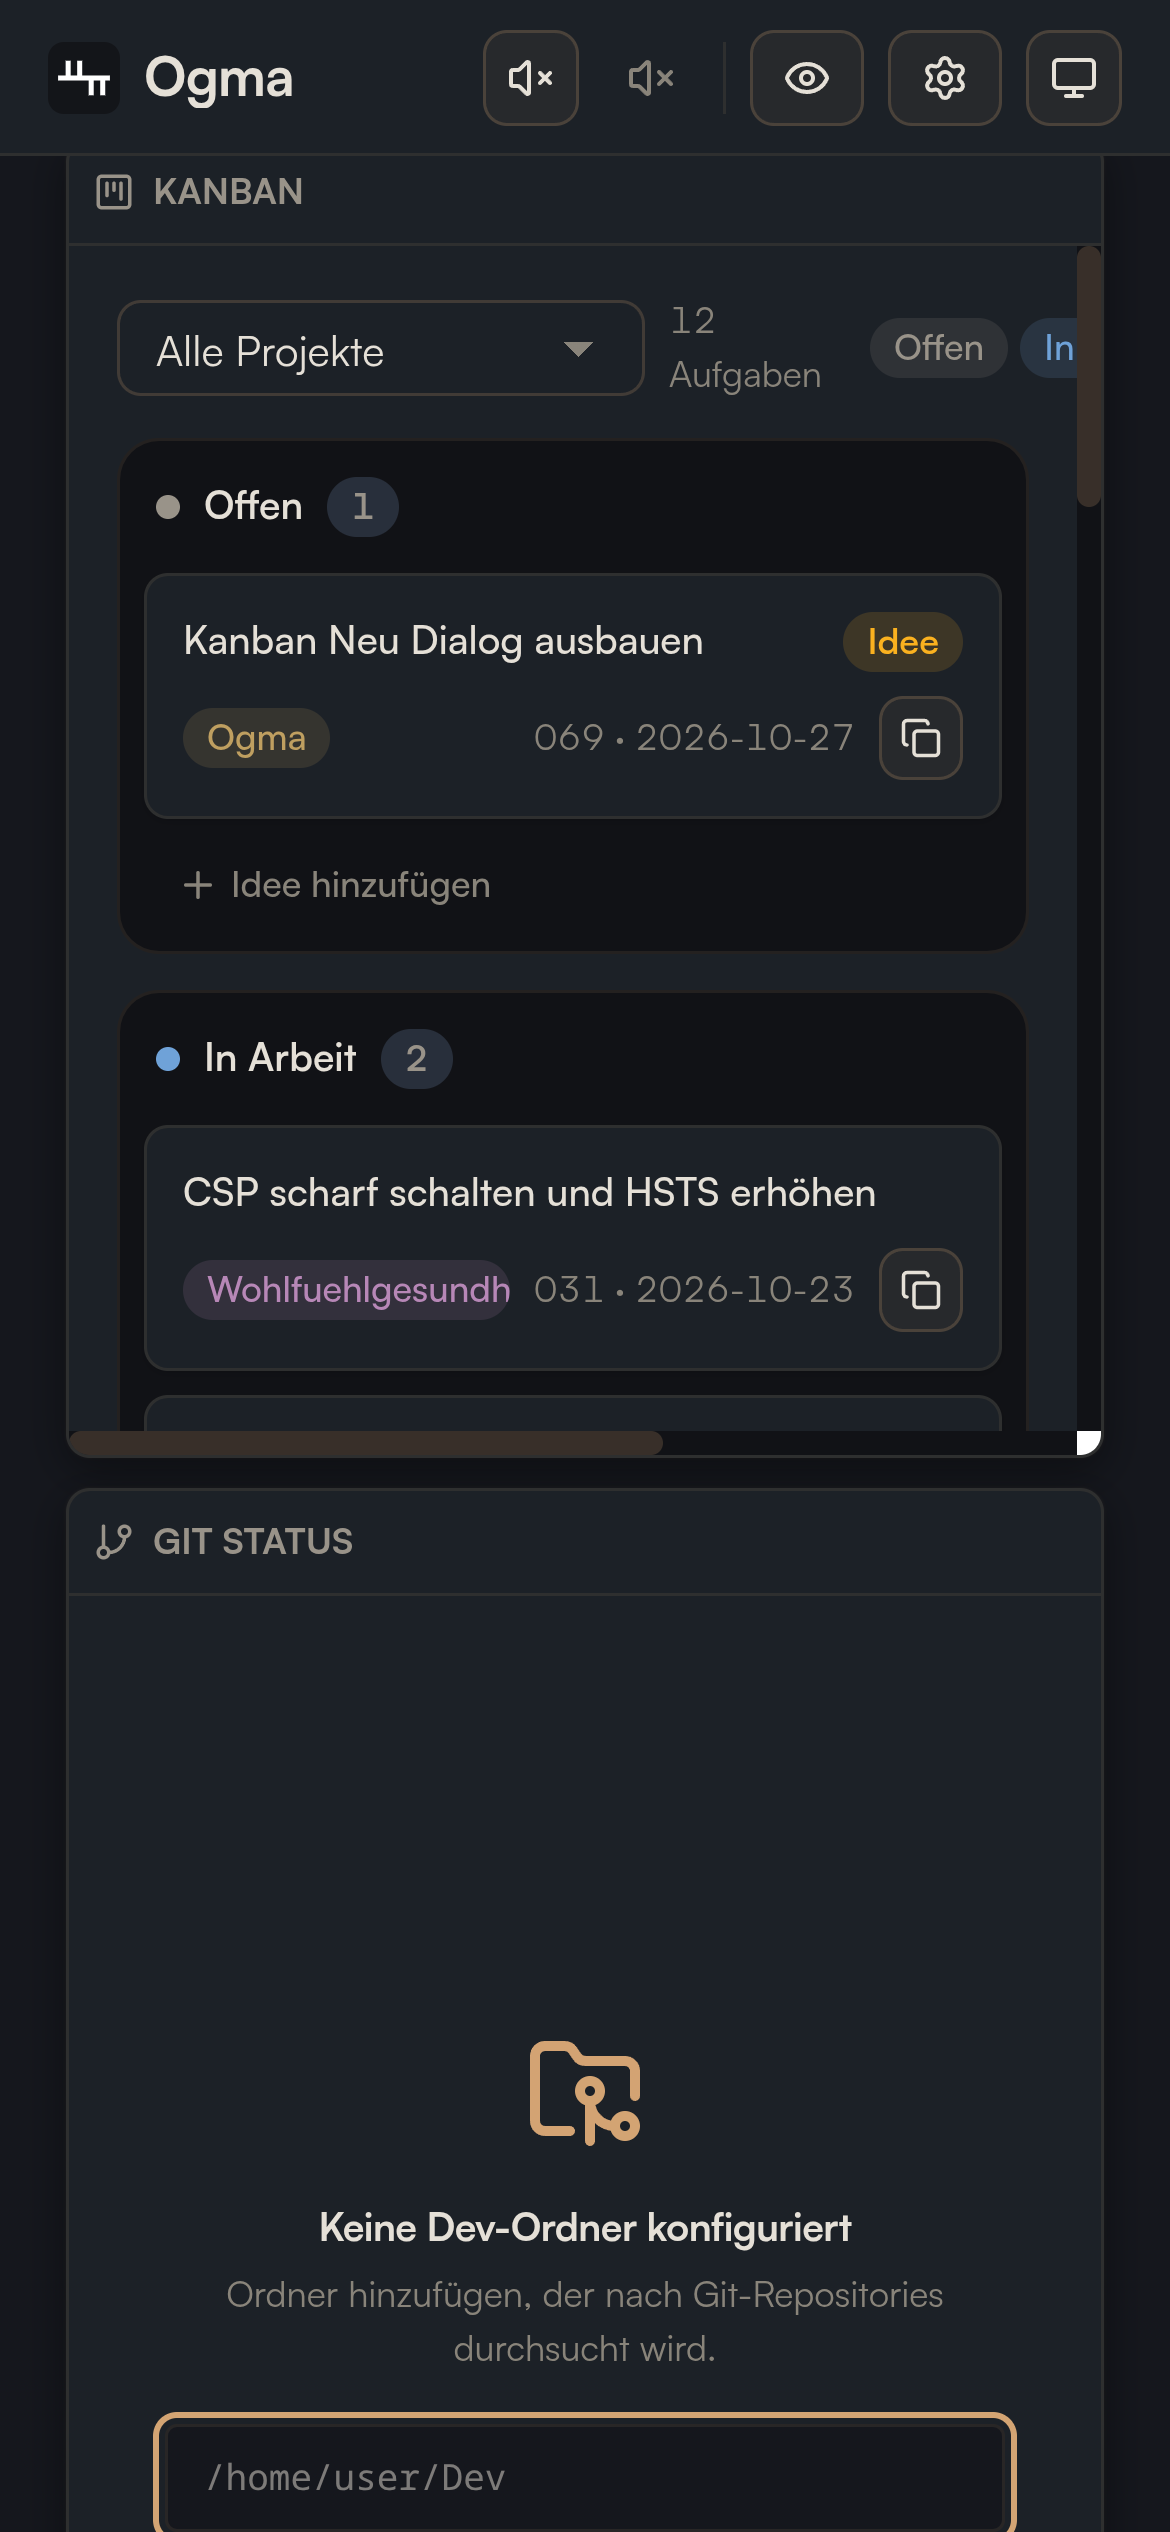
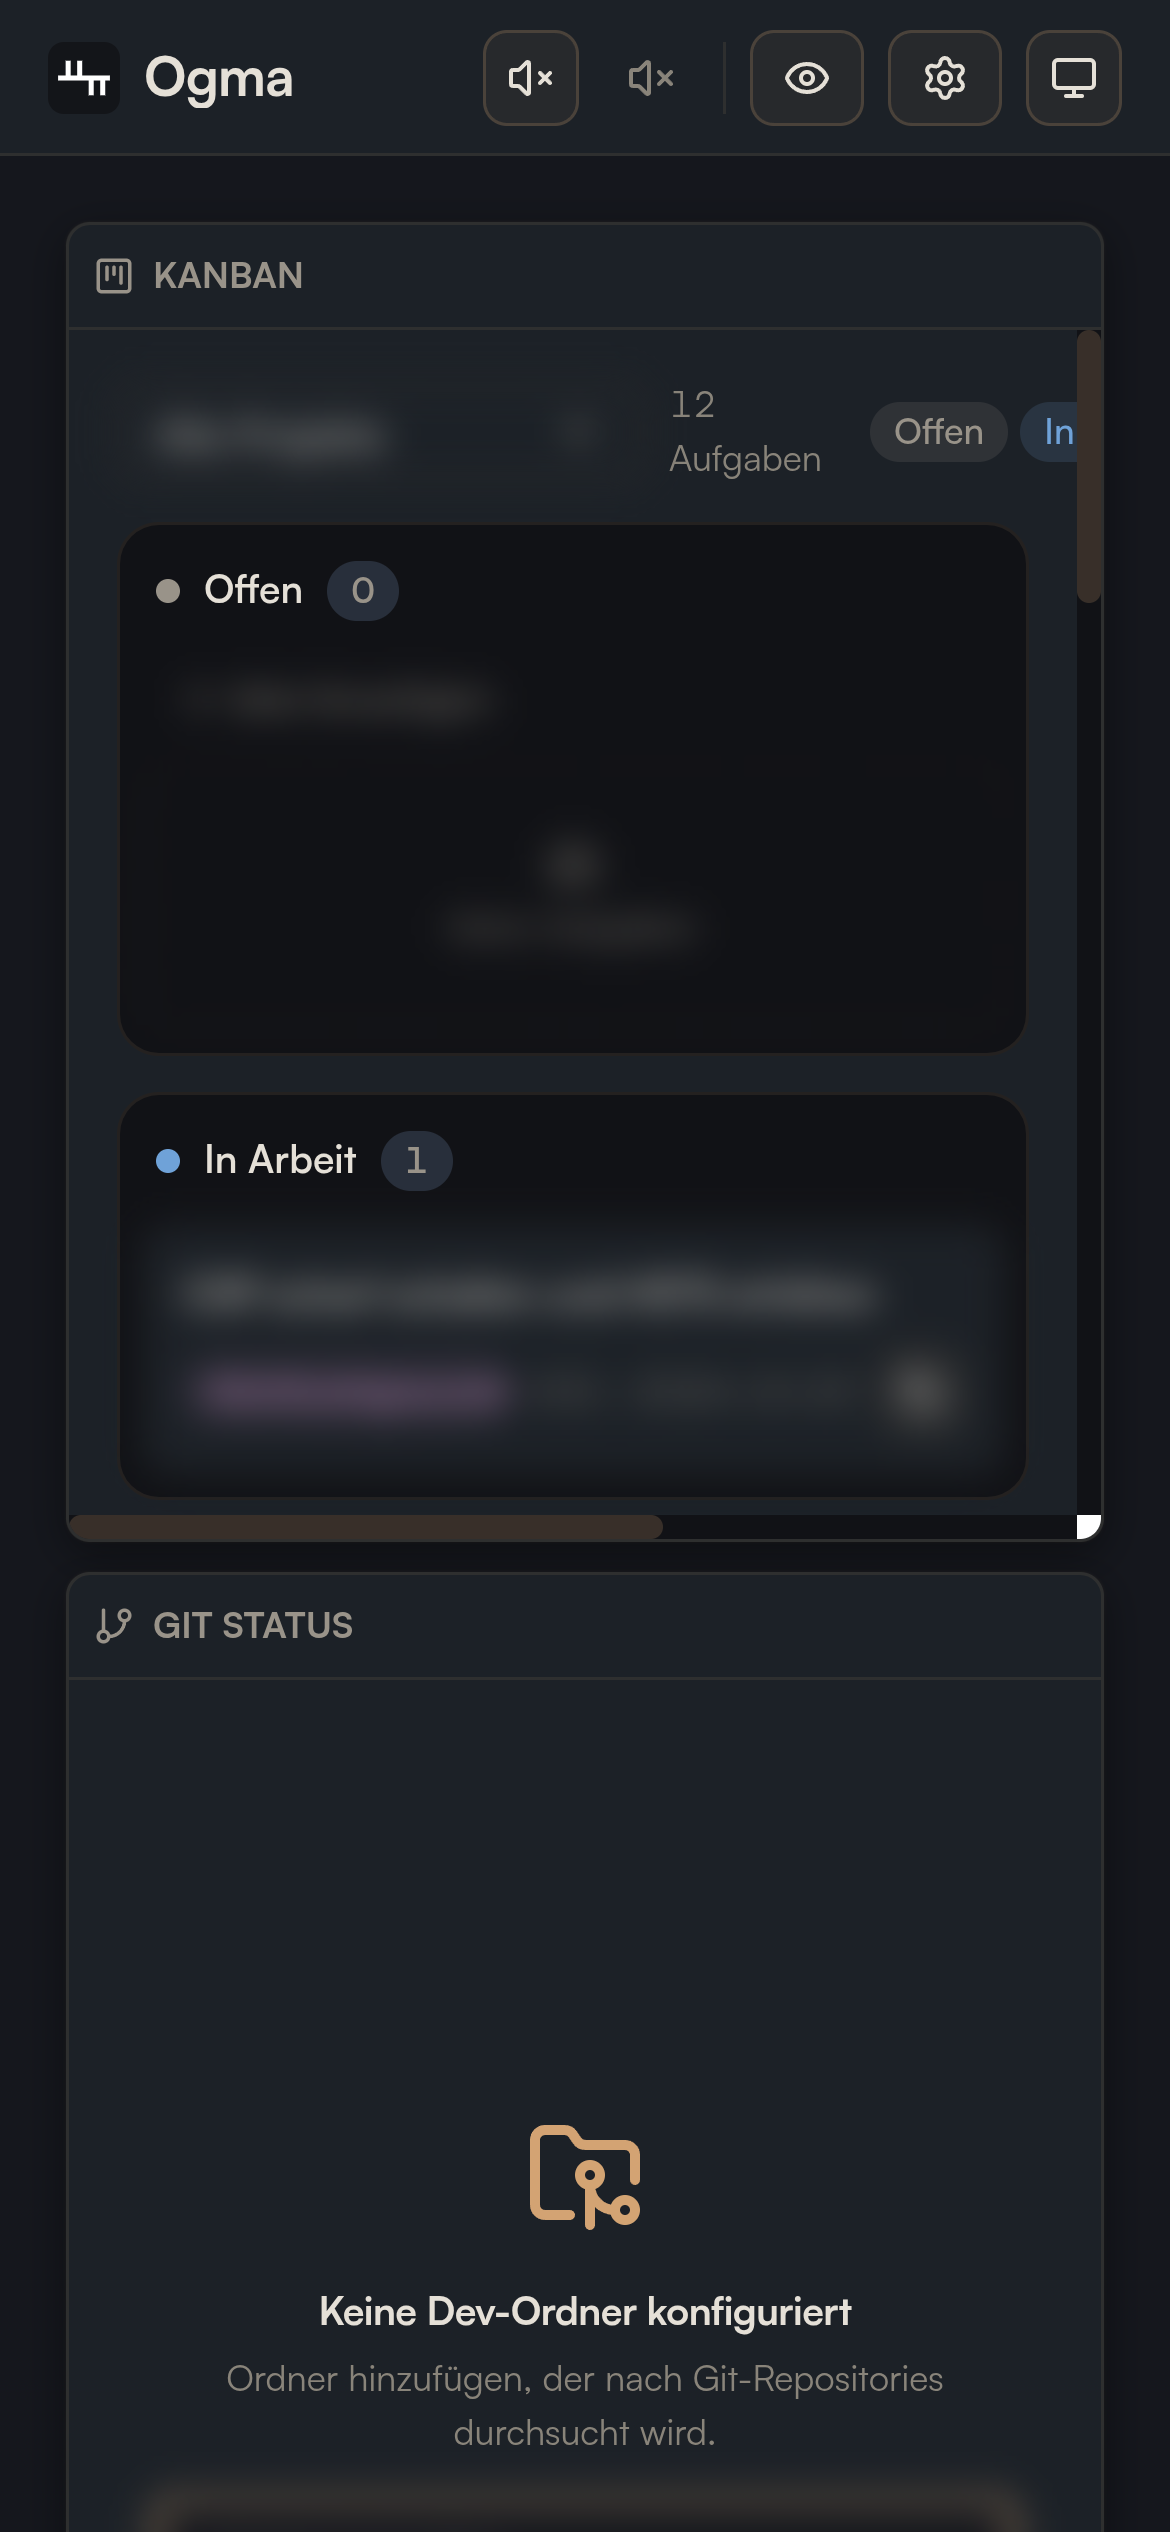
README-Screenshots erneuert (sensible Details verpixelt), Desktop-Kacheln kompakter, Storage blendet Mini-Dateisysteme aus

diff --git a/src/App.tsx b/src/App.tsx
@@ -74,30 +74,30 @@ const defaultLayout = [
   { i: 'docker', x: 6, y: 5, w: 6, h: 6, minW: 4, minH: 4 },
 
   // Row 3: System values
-  { i: 'metrics-cpu', x: 0, y: 11, w: 3, h: 3, minW: 3, minH: 2 },
-  { i: 'metrics-memory', x: 3, y: 11, w: 3, h: 3, minW: 3, minH: 2 },
-  { i: 'metrics-vram', x: 6, y: 11, w: 3, h: 3, minW: 3, minH: 2 },
-  { i: 'metrics-temp', x: 9, y: 11, w: 3, h: 3, minW: 3, minH: 2 },
+  { i: 'metrics-cpu', x: 0, y: 11, w: 3, h: 2, minW: 3, minH: 2 },
+  { i: 'metrics-memory', x: 3, y: 11, w: 3, h: 2, minW: 3, minH: 2 },
+  { i: 'metrics-vram', x: 6, y: 11, w: 3, h: 2, minW: 3, minH: 2 },
+  { i: 'metrics-temp', x: 9, y: 11, w: 3, h: 2, minW: 3, minH: 2 },
 
   // Row 4: History, cores, storage
-  { i: 'metrics-graph', x: 0, y: 14, w: 6, h: 4, minW: 4, minH: 3 },
-  { i: 'metrics-cores', x: 6, y: 14, w: 3, h: 4, minW: 3, minH: 2 },
-  { i: 'metrics-storage', x: 9, y: 14, w: 3, h: 4, minW: 3, minH: 3 },
+  { i: 'metrics-graph', x: 0, y: 13, w: 6, h: 4, minW: 4, minH: 3 },
+  { i: 'metrics-cores', x: 6, y: 13, w: 3, h: 4, minW: 3, minH: 2 },
+  { i: 'metrics-storage', x: 9, y: 13, w: 3, h: 4, minW: 3, minH: 3 },
 
   // Row 5: Services
-  { i: 'service-status', x: 0, y: 18, w: 4, h: 4, minW: 4, minH: 4 },
-  { i: 'github', x: 4, y: 18, w: 4, h: 4, minW: 4, minH: 4 },
-  { i: 'weather', x: 8, y: 18, w: 4, h: 4, minW: 4, minH: 4 },
+  { i: 'service-status', x: 0, y: 17, w: 4, h: 4, minW: 4, minH: 4 },
+  { i: 'github', x: 4, y: 17, w: 4, h: 4, minW: 4, minH: 4 },
+  { i: 'weather', x: 8, y: 17, w: 4, h: 4, minW: 4, minH: 4 },
 
   // Row 6: Network + scraper
-  { i: 'network-outage', x: 0, y: 22, w: 6, h: 4, minW: 6, minH: 4 },
-  { i: 'web-scraper', x: 6, y: 22, w: 6, h: 4, minW: 3, minH: 3 },
+  { i: 'network-outage', x: 0, y: 21, w: 6, h: 4, minW: 6, minH: 4 },
+  { i: 'web-scraper', x: 6, y: 21, w: 6, h: 4, minW: 3, minH: 3 },
 
   // Row 7: Backups
-  { i: 'backups', x: 0, y: 26, w: 12, h: 6, minW: 3, minH: 3 },
+  { i: 'backups', x: 0, y: 25, w: 12, h: 6, minW: 3, minH: 3 },
 
   // Row 8: Markdown editor (full width for editing room)
-  { i: 'markdown-editor', x: 0, y: 32, w: 12, h: 4, minW: 6, minH: 3 },
+  { i: 'markdown-editor', x: 0, y: 31, w: 12, h: 4, minW: 6, minH: 3 },
 ];
 
 // Below this width the grid collapses to one column (phones via the Pforte gateway).
@@ -274,7 +274,7 @@ function migrateLegacyMetrics() {
 // Stale saved layouts (from an older defaultLayout revision) are discarded
 // so users get the fixed layout automatically, without having to know to
 // press "Reset".
-const LAYOUT_VERSION = 9;
+const LAYOUT_VERSION = 10;
 
 function invalidateStaleLayout() {
   try {

diff --git a/src/components/metrics/StorageWidget.tsx b/src/components/metrics/StorageWidget.tsx
@@ -1,14 +1,16 @@
 import { MetricsShell } from './MetricsShell';
 import { formatBytes } from '../../lib/format';
 
+const MIN_DISK_BYTES = 64 * 1024 * 1024;
+
 export function StorageWidget() {
   return (
     <MetricsShell>
       {metrics => {
-        // Skip pseudo filesystems (size 0, e.g. efivars) and bind mounts of the same volume (/ and /srv).
+        // Skip pseudo filesystems (a few KB, e.g. efivars) and bind mounts of the same volume (/ and /srv).
         const seen = new Set<string>();
         const disks = metrics.disk
-          .filter(d => d.size > 0)
+          .filter(d => d.size >= MIN_DISK_BYTES)
           .filter(d => {
             const key = `${d.fs}|${d.size}|${d.used}`;
             if (seen.has(key)) return false;
